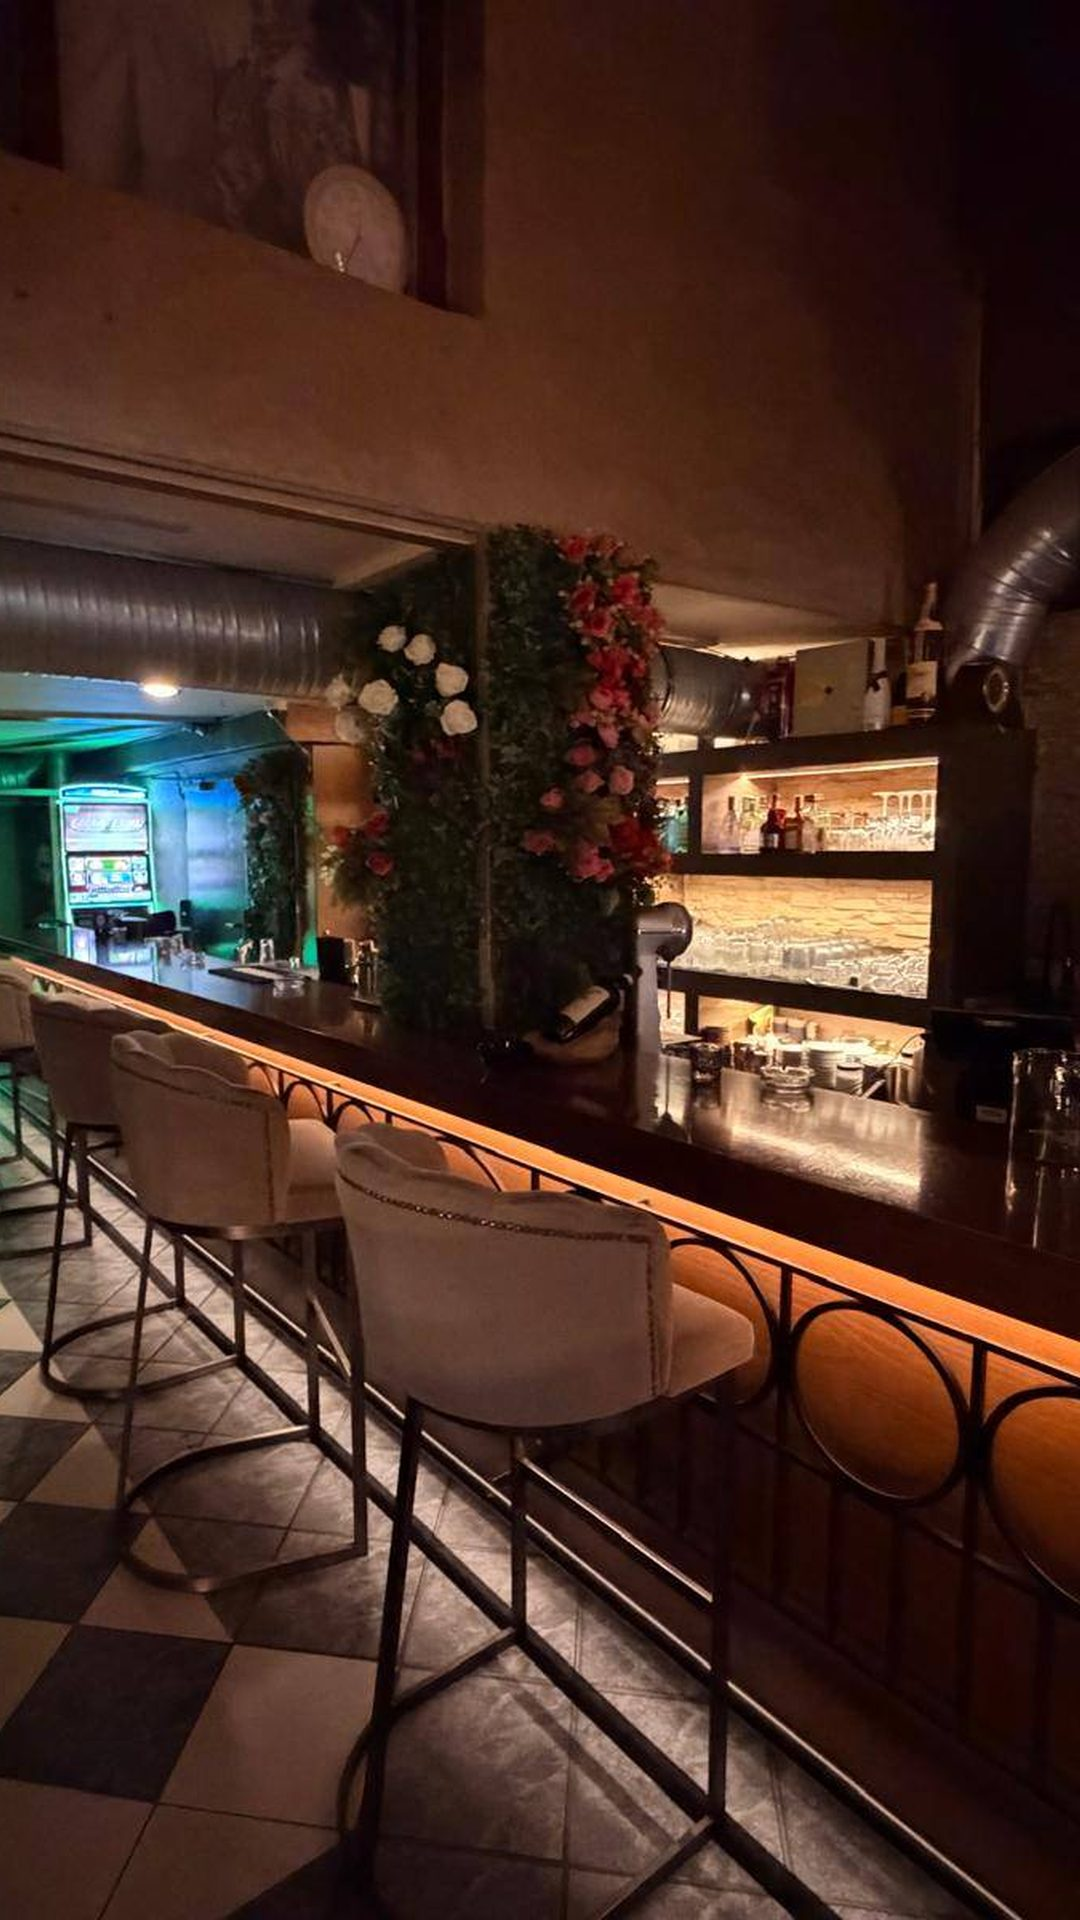
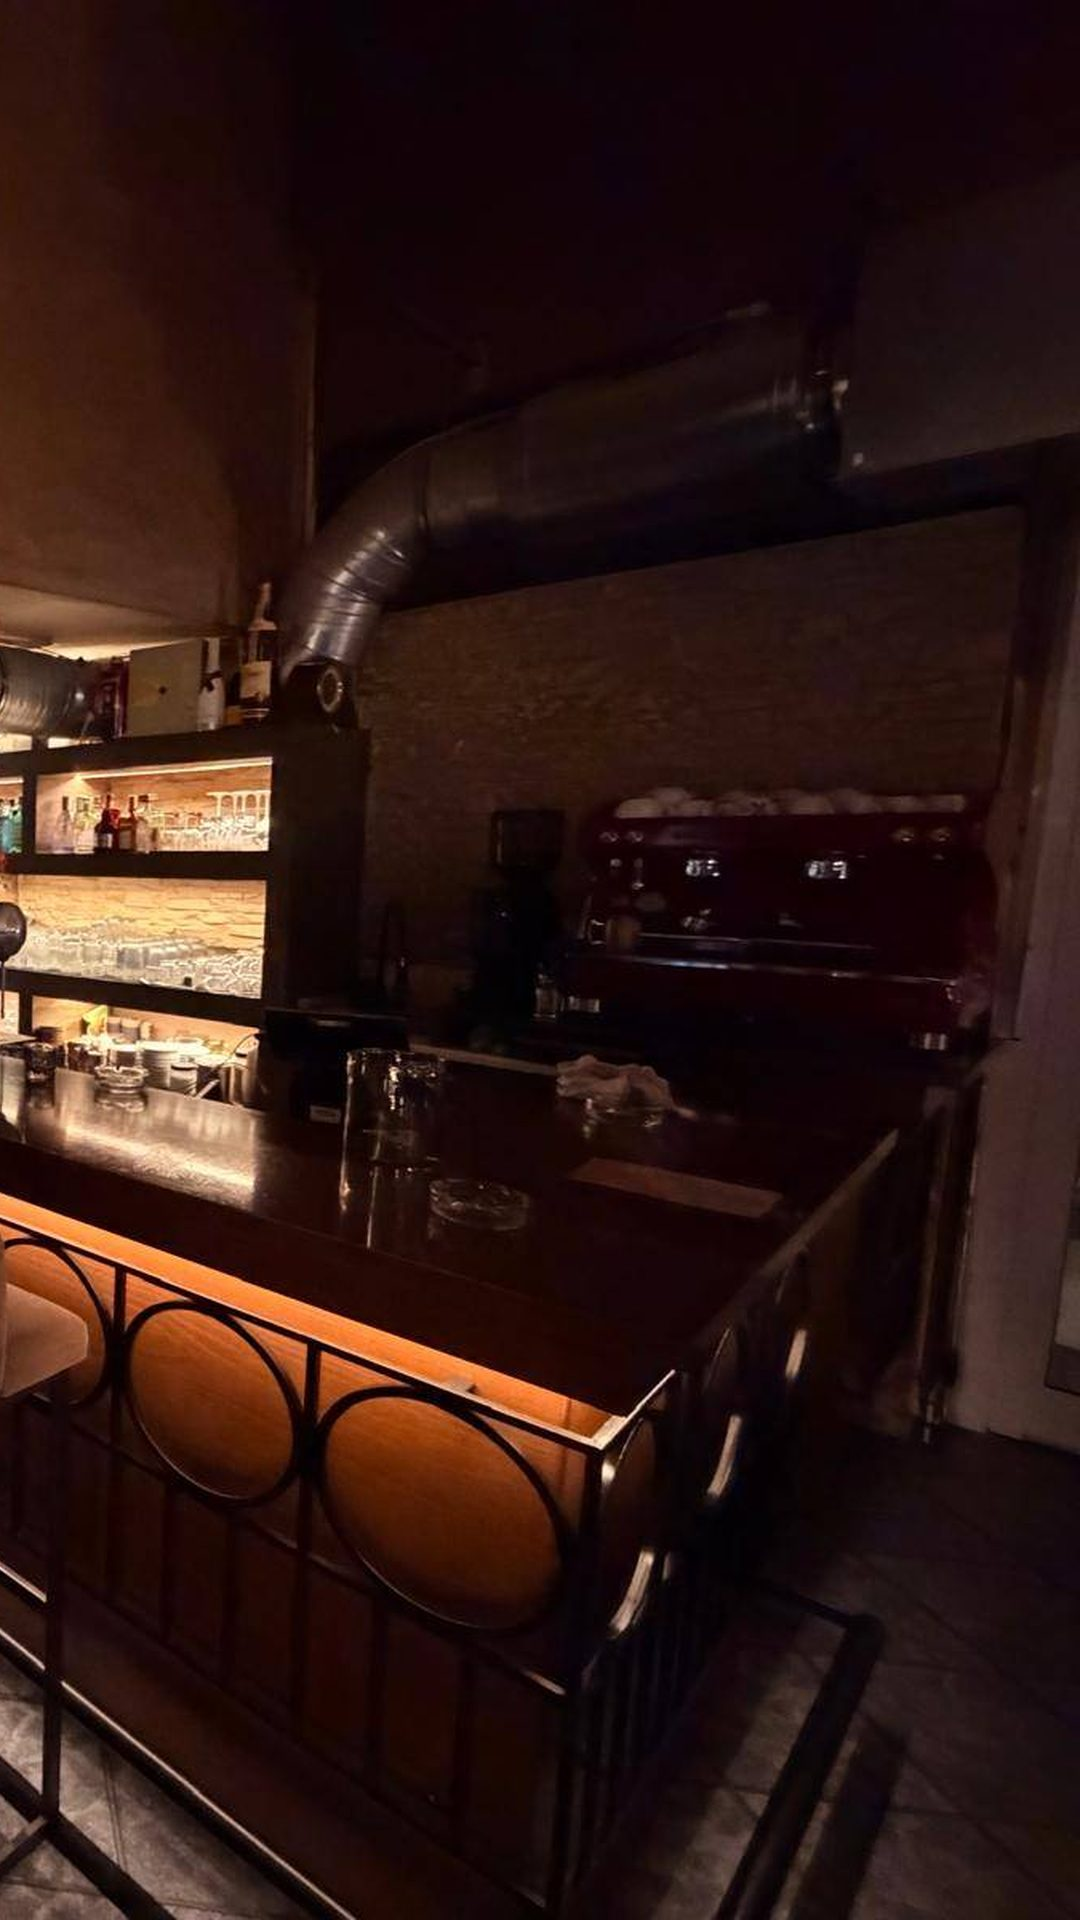
Automatische allgemeine Stories nach Zeitplan, Token-Verlängerung im Morgen-Lauf
- ZEITPLAN in config.py: täglich 14 Uhr geöffnet, Di–Do 18:30 und Sa 19 Uhr Drink, Fr 17 Uhr Wochenende,
  So 16 Uhr Feiern; wird ohne Freigabe gepostet, danach Info in Telegram
- /zeitplan, /pause [Tage], /weiter und Werkzeug für den Assistenten (z. B. „wir haben morgen zu“)
- Textvarianten für die allgemeinen Vorlagen, Fotos ohne sichtbare Spielautomaten
- GitHub-schedule entfernt (cron-job.org startet die Läufe); bereits erledigter Morgen-Lauf läuft als Bot weiter
- Instagram-Token montags verlängern und mit GH_PAT speichern, sonst Warnung nach 50 Tagen

diff --git a/lauf.py b/lauf.py
@@ -18,12 +18,14 @@ Spiel anfordern: dem Bot den Namen schreiben, z. B. „Gala Barça“ oder „Vf
 import datetime as dt
 import html
 import json
+import os
 import pathlib
 import random
 import sys
 import time
 import traceback
 
+import config
 import instagram
 import spielplan
 import telegram_bot
@@ -34,6 +36,8 @@ STATUS = HIER / 'status'
 GEPOSTET = STATUS / 'gepostet.txt'
 MORGEN = STATUS / 'morgen.txt'
 WEITER = STATUS / 'weiter'
+ZEITPLAN_DATEI = STATUS / 'zeitplan.json'   # erledigte automatische Stories und Pause
+TOKEN_DATEI = STATUS / 'token.txt'          # Datum der letzten Instagram-Token-Verlängerung
 STORIES = STATUS / 'stories.json'   # Bausteine der letzten Stories, damit sie sich ändern lassen
 MAX_STORIES = 40
 MAX_VERLAUF = 6                      # so viele letzte Dialoge pro Chat bekommt der Assistent als Kontext
@@ -52,7 +56,10 @@ HILFE = ('Schreib mir einfach, was du brauchst, ganz normal, zum Beispiel:\n'
          '• <i>Anderer Hintergrund, mehr Flutlicht und Regen</i>\n\n'
          'Gepostet wird nur, wenn du bei einer Story auf <b>Posten</b> tippst.\n\n'
          'Feste Befehle: /ligen (Spiele eines Wettbewerbs), /allgemein (Vorlagen), /heute (alle Spiele von heute), '
-         '<code>/text Titel | Untertitel</code> (eigener Text).')
+         '<code>/text Titel | Untertitel</code> (eigener Text).\n\n'
+         'Automatische Stories (ohne Freigabe): /zeitplan zeigt den Plan, /pause setzt ihn für heute aus '
+         '(<code>/pause 7</code> für eine Woche), /weiter startet ihn wieder. Oder schreib einfach '
+         '<i>Wir haben morgen zu</i>.')
 
 
 TEXT_HILFE = ('Schick mir den Text so: <code>/text Titel | Untertitel</code>\n'
@@ -254,6 +261,17 @@ class Bot:
         if befehl == '/ligen':
             telegram_bot.ligen_senden(e['chat'], spielplan.ligen())
             return
+        if befehl == '/zeitplan':
+            telegram_bot.text(self.zeitplan_text(), chat=e['chat'])
+            return
+        if befehl == '/pause':
+            teile = text.split()
+            tage = int(teile[1]) if len(teile) > 1 and teile[1].isdigit() else 1
+            telegram_bot.text(self.pausieren(max(tage, 1)), chat=e['chat'])
+            return
+        if befehl == '/weiter':
+            telegram_bot.text(self.pausieren(0), chat=e['chat'])
+            return
         if umgebung.wert('ANTHROPIC_API_KEY', pflicht=False):
             self.assistent().antworten(e)  # freie Nachricht: Claude versteht und handelt
             return
@@ -338,11 +356,107 @@ class Bot:
             traceback.print_exc()
             telegram_bot.text(f'⚠ Das hat nicht geklappt: {html.escape(str(fehler))}', chat=e['chat'])
 
+    # Zeitplan: allgemeine Stories automatisch posten (config.ZEITPLAN)
+
+    def zeitplan_status(self):
+        if ZEITPLAN_DATEI.exists():
+            return json.loads(ZEITPLAN_DATEI.read_text(encoding='utf-8'))
+        return {'erledigt': [], 'pause_bis': None}
+
+    def zeitplan_speichern(self, st):
+        STATUS.mkdir(exist_ok=True)
+        st['erledigt'] = st['erledigt'][-60:]
+        ZEITPLAN_DATEI.write_text(json.dumps(st, ensure_ascii=False, indent=1), encoding='utf-8')
+
+    def pausiert(self, st):
+        return bool(st.get('pause_bis')) and st['pause_bis'] >= jetzt().date().isoformat()
+
+    def termine_heute(self):
+        heute = jetzt().date()
+        for t in config.ZEITPLAN:
+            if heute.weekday() in t['tage']:
+                zeit = dt.datetime.combine(heute, dt.time.fromisoformat(t['zeit']), spielplan.BERLIN)
+                yield t, zeit, f"{heute.isoformat()}|{t['vorlage']}|{t['zeit']}"
+
+    def naechster_termin(self):
+        st = self.zeitplan_status()
+        if self.pausiert(st):
+            return None
+        kommend = [z for t, z, k in self.termine_heute()
+                   if k not in st['erledigt'] and z + dt.timedelta(minutes=config.ZEITPLAN_NACHHOLEN) > jetzt()]
+        return min(kommend) if kommend else None
+
+    def zeitplan_pruefen(self):
+        st = self.zeitplan_status()
+        for t, zeit, schluessel in self.termine_heute():
+            if schluessel in st['erledigt'] or not zeit <= jetzt() <= zeit + dt.timedelta(minutes=config.ZEITPLAN_NACHHOLEN):
+                continue
+            st['erledigt'].append(schluessel)
+            self.zeitplan_speichern(st)  # vor dem Posten merken: lieber einmal auslassen als doppelt posten
+            if self.pausiert(st):
+                print('pausiert, ausgelassen:', schluessel)
+                continue
+            self.automatisch_posten(t)
+
+    def automatisch_posten(self, t):
+        import allgemein
+        import hintergrund
+        heute = jetzt().date()
+        name = allgemein.VORLAGEN[t['vorlage']]['knopf'].split(' ', 1)[1]
+        try:
+            d, beschreibung, _ = allgemein.daten(t['vorlage'], heute)
+            datei = allgemein.rendern(d, heute, f"auto-{t['vorlage']}")
+            url = hintergrund.hochladen(datei, ordner=f'cafecheval-stories/{heute.isoformat()}')
+            instagram.story_posten(url)
+        except Exception as fehler:
+            traceback.print_exc()
+            telegram_bot.text(f"⚠ Automatische Story „{html.escape(name)}“ ({t['zeit']} Uhr) fehlgeschlagen: "
+                              f'{html.escape(str(fehler))}')
+            return
+        self.gepostet.add(url)
+        speichere_gepostet(self.gepostet)
+        telegram_bot.info_senden(url, f"🤖 Automatisch gepostet ({t['zeit']} Uhr): <b>{html.escape(name)}</b>\n"
+                                      '/pause setzt die automatischen Stories aus, /zeitplan zeigt den Plan.')
+        print('automatisch gepostet:', t['vorlage'], url)
+
+    def pausieren(self, tage):
+        """tage = 0 hebt die Pause auf, 1 = nur heute, 7 = eine Woche."""
+        st = self.zeitplan_status()
+        if tage <= 0:
+            st['pause_bis'] = None
+            self.zeitplan_speichern(st)
+            return 'Die automatischen Stories laufen wieder.'
+        bis = jetzt().date() + dt.timedelta(days=tage - 1)
+        st['pause_bis'] = bis.isoformat()
+        self.zeitplan_speichern(st)
+        wann = 'heute' if tage == 1 else f'einschließlich {KURZ[bis.weekday()]} {bis:%d.%m.}'
+        return f'Automatische Stories sind {wann} pausiert. /weiter startet sie früher wieder.'
+
+    def zeitplan_text(self):
+        import allgemein
+        zeilen = ['<b>Automatische Stories</b> (werden ohne Freigabe gepostet):']
+        for t in config.ZEITPLAN:
+            tage = 'täglich' if len(t['tage']) == 7 else ', '.join(KURZ[i] for i in t['tage'])
+            name = allgemein.VORLAGEN[t['vorlage']]['knopf']
+            zeilen.append(f"• {tage}, {t['zeit']} Uhr: {html.escape(name)}")
+        st = self.zeitplan_status()
+        if self.pausiert(st):
+            bis = dt.date.fromisoformat(st['pause_bis'])
+            zeilen.append(f'\n⏸ Pausiert bis einschließlich {KURZ[bis.weekday()]} {bis:%d.%m.} (/weiter)')
+        else:
+            zeilen.append('\n/pause setzt sie für heute aus, /pause 7 für eine Woche.')
+        return '\n'.join(zeilen)
+
     def laufen(self, bis):
         print(f'Bot läuft bis {bis:%H:%M} Uhr')
         while jetzt() < bis:
+            self.zeitplan_pruefen()
+            warten = (bis - jetzt()).total_seconds()
+            termin = self.naechster_termin()
+            if termin:
+                warten = max(1, min(warten, (termin - jetzt()).total_seconds() + 1))
             try:
-                liste, bestaetigen = telegram_bot.entscheidungen(warten=(bis - jetzt()).total_seconds())
+                liste, bestaetigen = telegram_bot.entscheidungen(warten=warten)
             except Exception as fehler:  # z. B. Netzwerk weg: kurz warten, weitermachen
                 print('Warnung:', fehler)
                 time.sleep(30)
@@ -371,14 +485,18 @@ def bot(start):
 
 
 def morgen(tag, start, als_bot=True):
-    if MORGEN.exists() and MORGEN.read_text(encoding='utf-8').strip() == tag.isoformat():
-        print(f'Stories für {tag} wurden schon geschickt')
-        return  # ein früherer Weckruf hat das schon erledigt und läuft als Bot
     b = Bot()
-    anzahl = b.tagesstories(tag)
-    STATUS.mkdir(exist_ok=True)
-    MORGEN.write_text(tag.isoformat(), encoding='utf-8')
-    print(f'{anzahl} Stories für {tag} geschickt')
+    if MORGEN.exists() and MORGEN.read_text(encoding='utf-8').strip() == tag.isoformat():
+        # Ein früherer Weckruf hat das schon erledigt. Trotzdem als Bot weiterlaufen, damit die Kette
+        # nicht abreißt, falls dieser Lauf den wartenden Bot-Lauf ersetzt hat.
+        print(f'Stories für {tag} wurden schon geschickt')
+    else:
+        anzahl = b.tagesstories(tag)
+        STATUS.mkdir(exist_ok=True)
+        MORGEN.write_text(tag.isoformat(), encoding='utf-8')
+        print(f'{anzahl} Stories für {tag} geschickt')
+        if tag.weekday() == 0:
+            token_pruefen()
     if als_bot:
         ende = ende_des_laufs(start)
         b.laufen(ende)
@@ -393,6 +511,22 @@ def freigaben():
     for e in liste:
         b.bearbeiten(e)
     speichere_gepostet(b.gepostet)
+
+
+def token_pruefen():
+    """Montags: Instagram-Token verlängern, wenn der Workflow ihn danach speichern kann (Secret GH_PAT).
+    Sonst nur warnen, wenn der zuletzt gespeicherte Token bald abläuft (gilt 60 Tage)."""
+    try:
+        if os.environ.get('GH_PAT_GESETZT'):
+            token()
+            TOKEN_DATEI.write_text(jetzt().date().isoformat(), encoding='utf-8')
+            return
+        seit = dt.date.fromisoformat(TOKEN_DATEI.read_text(encoding='utf-8').strip()) if TOKEN_DATEI.exists() else None
+        if seit and (jetzt().date() - seit).days >= 50:
+            telegram_bot.text(f'⚠ Der Instagram-Token ist seit {seit:%d.%m.} nicht verlängert worden und läuft '
+                              f'um den {seit + dt.timedelta(days=60):%d.%m.} ab. Bitte Bescheid geben, damit er erneuert wird.')
+    except Exception as fehler:
+        print('Warnung Token:', fehler)
 
 
 def token():

diff --git a/allgemein.py b/allgemein.py
@@ -24,23 +24,41 @@ COCKTAILS = ['cocktail-caipirinha', 'cocktail-cuba-libre', 'cocktail-long-island
 FUSSBALL = 'ki-vorrat'
 
 
+WOCHENTAGE = ['Montag', 'Dienstag', 'Mittwoch', 'Donnerstag', 'Freitag', 'Samstag', 'Sonntag']
+
+
 def _zeiten(tag):
     auf, zu = ZEITEN[tag.weekday()]
     return f'{auf} bis {zu} Uhr'
+
+
+def _variante(tag, varianten):
+    """Wechselt täglich zwischen mehreren Texten, damit automatische Stories nicht jeden Tag gleich aussehen."""
+    return dict(varianten[tag.toordinal() % len(varianten)])
 
 
 # Schlüssel -> Knopftext, Inhalt (Funktion des Tages) und Fotos
 VORLAGEN = {
     'geoeffnet': {
         'knopf': '🟢 Wir haben geöffnet',
-        'inhalt': lambda tag: {'kicker': 'Heute für euch da', 'titel': 'Wir haben *geöffnet*',
-                               'unter': f'Heute von *{_zeiten(tag)}*. Kommt vorbei!'},
+        'inhalt': lambda tag: _variante(tag, [
+            {'kicker': 'Heute für euch da', 'titel': 'Wir haben *geöffnet*',
+             'unter': f'Heute von *{_zeiten(tag)}*. Kommt vorbei!'},
+            {'kicker': 'Ab jetzt geöffnet', 'titel': 'Die Bar ist *offen*',
+             'unter': f'Heute von *{_zeiten(tag)}*. Wir freuen uns auf euch.'},
+            {'kicker': f'{WOCHENTAGE[tag.weekday()]} bei uns', 'titel': 'Tür auf, *Licht an*',
+             'unter': f'Heute geöffnet von *{_zeiten(tag)}*.'},
+        ]),
         'fotos': ['fassade-asperger-strasse'] + BAR,
     },
     'cocktails': {
         'knopf': '🍹 Zeit für einen Drink',
-        'inhalt': lambda tag: {'kicker': 'Feierabend', 'titel': 'Zeit für einen *Drink*',
-                               'unter': f'Cocktails und Longdrinks, heute von *{_zeiten(tag)}*.'},
+        'inhalt': lambda tag: _variante(tag, [
+            {'kicker': 'Feierabend', 'titel': 'Zeit für einen *Drink*',
+             'unter': f'Cocktails und Longdrinks, heute von *{_zeiten(tag)}*.'},
+            {'kicker': 'Heute Abend', 'titel': 'Cheers auf den *Feierabend*',
+             'unter': f'Cocktails und Longdrinks an der Bar, heute bis *{ZEITEN[tag.weekday()][1]} Uhr*.'},
+        ]),
         'fotos': COCKTAILS,
     },
     'wochenende': {
@@ -51,8 +69,12 @@ VORLAGEN = {
     },
     'feiern': {
         'knopf': '🥂 Feiern bei uns',
-        'inhalt': lambda tag: {'kicker': 'Euer Anlass bei uns', 'titel': 'Lust zu *feiern*?',
-                               'unter': f'Geburtstag, Abschied oder einfach so. Ruft uns an: *{TELEFON}*'},
+        'inhalt': lambda tag: _variante(tag, [
+            {'kicker': 'Euer Anlass bei uns', 'titel': 'Lust zu *feiern*?',
+             'unter': f'Geburtstag, Abschied oder einfach so. Ruft uns an: *{TELEFON}*'},
+            {'kicker': 'Euer Anlass bei uns', 'titel': 'Euer Fest, *unsere Bar*',
+             'unter': f'Fragt uns nach eurer Feier: *{TELEFON}*'},
+        ]),
         'fotos': BAR,
     },
     'fussball': {

diff --git a/ki.py b/ki.py
@@ -9,6 +9,7 @@ die letzten Dialoge), steht als Kontext in der Nachricht. So bleibt jede Anfrage
 import datetime as dt
 import html
 import json
+import re
 
 import anthropic
 
@@ -41,6 +42,9 @@ zeig sie ebenfalls mit auswahl_anzeigen, dann reicht als Antwort ein kurzer Satz
 im Titel bricht | die Zeile um.
 - Keine Inhalte über Dinge, die es im Café nicht gibt (Essen, Kaffee, Angebote, Preise), außer der \
 Mensch nennt sie ausdrücklich.
+- Einige allgemeine Stories postet der Bot automatisch nach Zeitplan. Sagt der Mensch, dass das Café \
+geschlossen ist (Ruhetag, Urlaub, Feiertag), pausiere den Zeitplan für die passenden Tage mit dem Werkzeug \
+zeitplan und sag, bis wann.
 - Wünsche für einen neuen KI-Hintergrund formulierst du als kurze englische Bildbeschreibung ohne Text, \
 Logos oder erkennbare Personen.
 - Antworte danach in ein bis zwei kurzen Sätzen auf Deutsch, ohne Formatierung. Nenne die Nummer der \
@@ -115,6 +119,16 @@ TOOLS = [
             'kicker': {'type': 'string', 'description': 'Kurzer Text über dem Titel, optional'},
             'foto': {'type': 'string', 'enum': FOTO_ARTEN, 'description': 'Optional: Art des Hintergrundfotos'},
         }, 'required': ['vorlage']},
+    },
+    {
+        'name': 'zeitplan',
+        'description': 'Automatische allgemeine Stories, die der Bot ohne Freigabe nach festem Plan postet '
+                       '(z. B. täglich 14 Uhr „Wir haben geöffnet“). anzeigen = Plan und Pause-Status, pausieren = '
+                       'aussetzen für tage Tage ab heute (1 = nur heute), fortsetzen = Pause aufheben.',
+        'input_schema': {'type': 'object', 'properties': {
+            'aktion': {'type': 'string', 'enum': ['anzeigen', 'pausieren', 'fortsetzen']},
+            'tage': {'type': 'integer', 'description': 'Nur bei pausieren: Anzahl Tage ab heute'},
+        }, 'required': ['aktion']},
     },
     {
         'name': 'story_aendern',
@@ -220,6 +234,12 @@ class Assistent:
             return f'Story {sid} erstellt und geschickt.'
         if name == 'allgemeine_story_erstellen':
             return self.allgemein(eingabe, chat, heute)
+        if name == 'zeitplan':
+            if eingabe['aktion'] == 'pausieren':
+                return self.bot.pausieren(max(int(eingabe.get('tage') or 1), 1))
+            if eingabe['aktion'] == 'fortsetzen':
+                return self.bot.pausieren(0)
+            return re.sub(r'<[^>]+>', '', self.bot.zeitplan_text())
         if name == 'story_aendern':
             felder = {k: eingabe[k] for k in ('kicker', 'titel', 'wettbewerb', 'runde', 'heim', 'gast', 'uhrzeit', 'datum')
                       if k in eingabe}

diff --git a/config.py b/config.py
@@ -279,3 +279,16 @@ STIL = (
     'Keep the centre of the image calm and uncluttered, no main subject in the middle. '
     'Absolutely no text, no letters, no numbers, no logos, no club crests, no jerseys with names, no watermark.'
 )
+
+# Allgemeine Stories, die der Bot ohne Freigabe automatisch postet (deutsche Zeit, Tage: Mo = 0 … So = 6).
+# Nach dem Posten kommt eine Info in Telegram. /pause setzt die automatischen Stories aus (z. B. wenn
+# das Café zu hat), /weiter startet sie wieder, /zeitplan zeigt den Plan.
+ZEITPLAN = [
+    {'vorlage': 'geoeffnet', 'tage': [0, 1, 2, 3, 4, 5, 6], 'zeit': '14:00'},  # zur Öffnung
+    {'vorlage': 'cocktails', 'tage': [1, 2, 3], 'zeit': '18:30'},              # Di–Do zum Feierabend
+    {'vorlage': 'wochenende', 'tage': [4], 'zeit': '17:00'},                   # Freitag nach der Arbeit
+    {'vorlage': 'cocktails', 'tage': [5], 'zeit': '19:00'},                    # Samstagabend
+    {'vorlage': 'feiern', 'tage': [6], 'zeit': '16:00'},                       # Sonntag, wenn man die Woche plant
+]
+# Wird ein Termin verpasst (z. B. während eines Neustarts), holt der Bot ihn bis zu so viele Minuten später nach.
+ZEITPLAN_NACHHOLEN = 60

diff --git a/telegram_bot.py b/telegram_bot.py
@@ -69,6 +69,15 @@ def ligen_senden(chat, ligen):
     _api('sendMessage', chat_id=chat, text='Welcher Wettbewerb?', reply_markup={'inline_keyboard': zeilen})
 
 
+def info_senden(bild_url, text_html):
+    """Bild mit Text, ohne Knöpfe, an alle Empfänger (z. B. „Automatisch gepostet“)."""
+    for c in empfaenger():
+        try:
+            _api('sendPhoto', chat_id=c, photo=bild_url, caption=text_html, parse_mode='HTML')
+        except RuntimeError as e:
+            print('Warnung:', e)
+
+
 def bild_url(nachricht):
     for e in nachricht.get('caption_entities', []):
         if e.get('type') == 'text_link':

diff --git a/README.md b/README.md
@@ -20,13 +20,24 @@ Jeweils `POST https://api.github.com/repos/Luetfi/cafecheval-spieltag-story/acti
 mit den Headern `Authorization: Bearer <Fine-grained Token, nur dieses Repo, Actions: Read and write>`,
 `Accept: application/vnd.github+json`, `X-GitHub-Api-Version: 2022-11-28`, `Content-Type: application/json`.
 Läuft der Token ab, kommt der neue in alle drei Cronjobs. Läuft der Bot schon, ersetzt ein weiterer Start
-nur den wartenden Lauf, es passiert nichts doppelt. Die `schedule`-Einträge im Workflow bleiben als Reserve.
+nur den wartenden Lauf, es passiert nichts doppelt. GitHubs eigener `schedule` ist aus dem Workflow entfernt.
+
+**Automatische allgemeine Stories** (`ZEITPLAN` in `config.py`) postet der Bot ohne Freigabe und schickt danach
+eine Info in Telegram: täglich 14:00 „Wir haben geöffnet“, Di–Do 18:30 und Sa 19:00 „Zeit für einen Drink“,
+Fr 17:00 „Endlich Wochenende“, So 16:00 „Feiern bei uns“. Die Texte wechseln täglich zwischen Varianten
+(`allgemein.py`), die Fotos zufällig. `/pause` (heute), `/pause 7`, `/weiter`, `/zeitplan`, oder per Nachricht
+(„wir haben morgen zu“). Verpasste Termine werden bis 60 Minuten später nachgeholt, nie doppelt
+(`status/zeitplan.json`).
+
+**Instagram-Token:** gilt 60 Tage, beim Verlängern gibt Instagram einen neuen Token aus. Montags verlängert der
+Morgen-Lauf ihn und speichert ihn als Secret, wenn das Secret `GH_PAT` existiert (Fine-grained Token, nur dieses
+Repo, Rechte „Secrets: Read and write“). Ohne `GH_PAT` warnt der Bot in Telegram, sobald der zuletzt gespeicherte
+Token (`status/token.txt`) 50 Tage alt ist.
 
 - **Morgens** (cron-job.org 7:00, Reserve: GitHub-Zeitplan): `python lauf.py morgen` schickt alle Spiele
   des Tages aus `WETTBEWERBE` als Story, empfohlene zuerst (⭐). Danach läuft derselbe Lauf als Bot weiter.
 - **Bot** bis 23 Uhr: bearbeitet „Posten“/„Verwerfen“ sofort und beantwortet Anfragen. Nach 5:40 Stunden
   startet sich der Lauf selbst neu (GitHub erlaubt höchstens 6 Stunden pro Lauf).
-- **Montags** 4:30 UTC: `python lauf.py token` verlängert den Instagram-Token.
 
 Im Bot (nur für freigeschaltete Chat-IDs):
 
